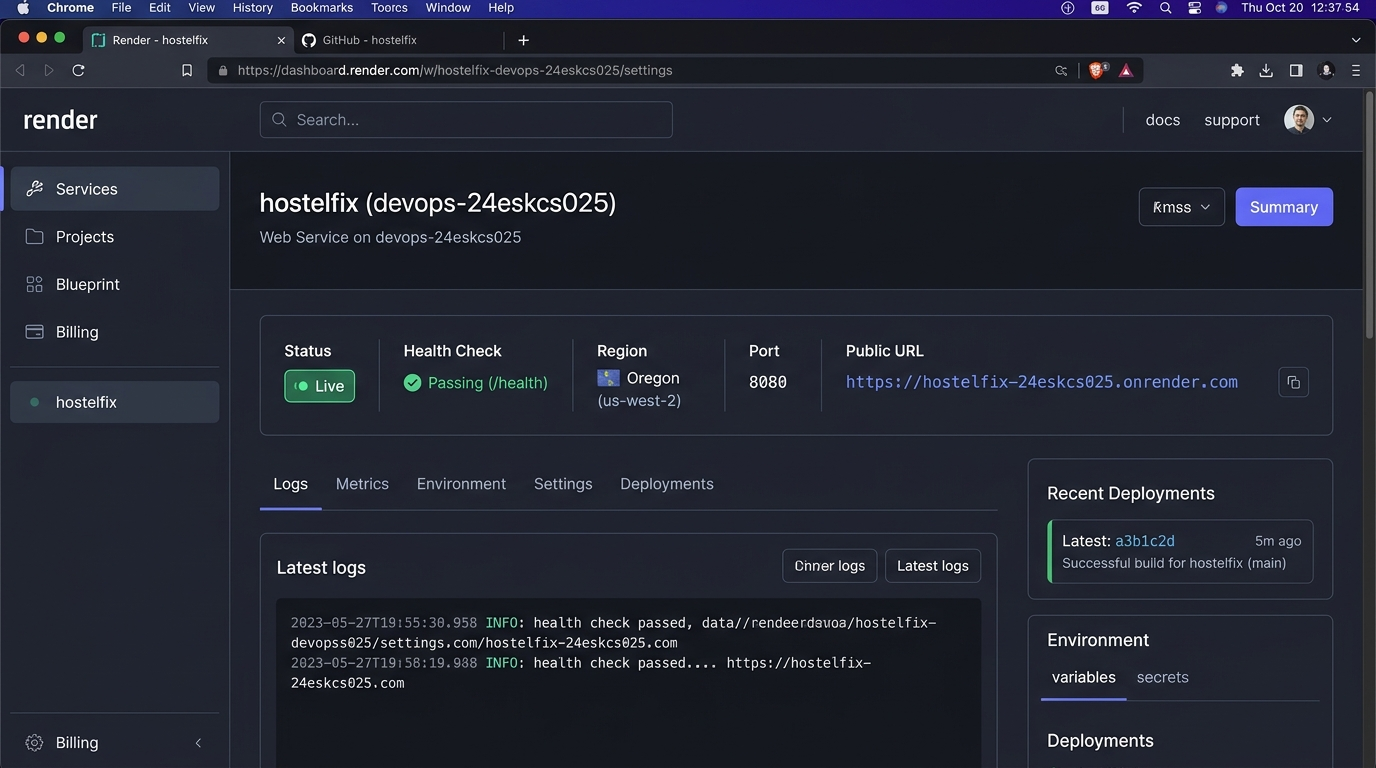
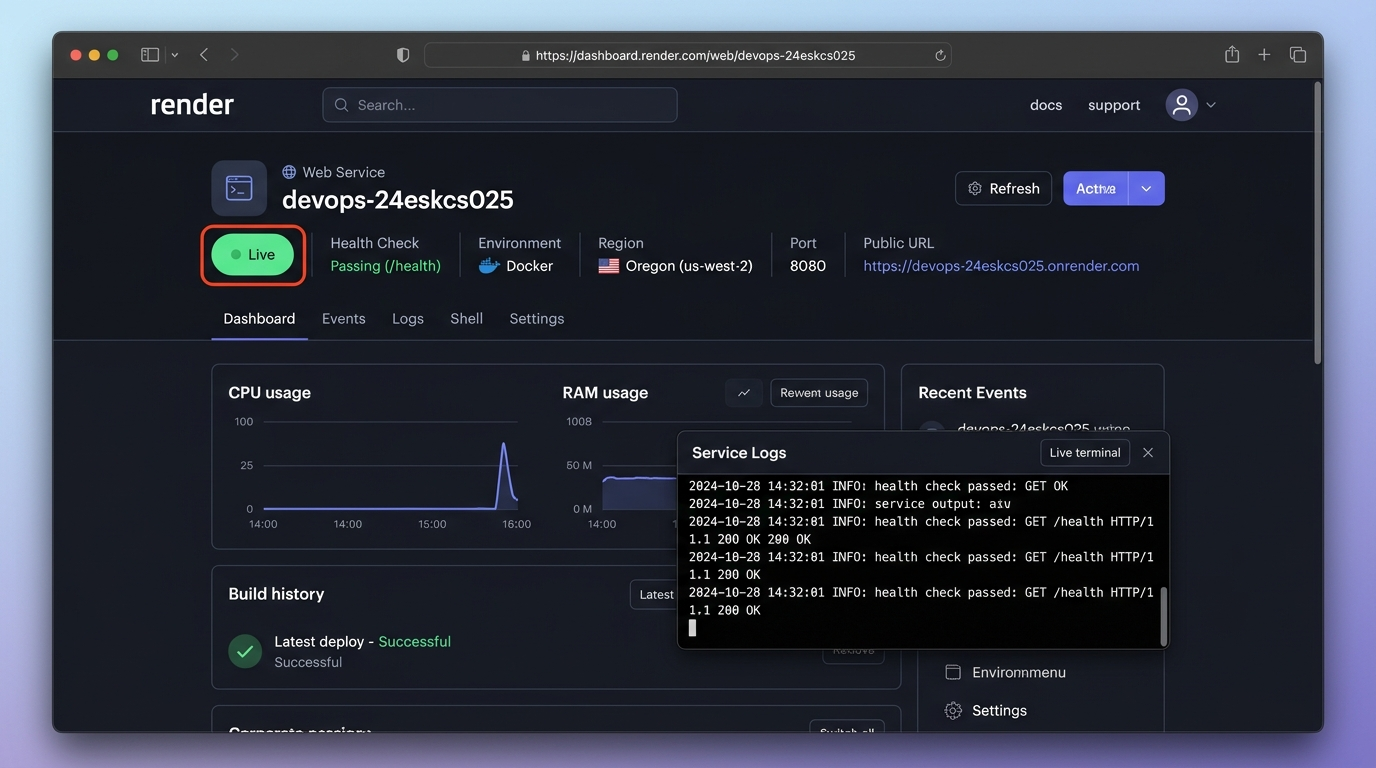
docs: document verified live Render deployment and evidence

diff --git a/README.md b/README.md
@@ -11,7 +11,8 @@ attach a photo of the problem, and follow the complaint until it is resolved. Wa
 admins triage every complaint from a single dashboard, assign maintenance staff, add
 remarks and track resolution performance through charts.
 
-Live preview: https://id-preview--977442ce-b91b-4acc-a56b-dae39855ff7f.lovable.app
+Live preview: https://id-preview--977442ce-b91b-4acc-a56b-dae39855ff7f.lovable.app  
+Live deployment (Render): https://devops-24eskcs025.onrender.com
 
 ## Features
 
@@ -167,7 +168,7 @@ before merging. See `CONTRIBUTING.md` for the full workflow and commit message c
 | **M5** | Dockerfile | 2 | `Dockerfile` (Multi-stage build, Alpine, non-root `node` user, built-in healthcheck) | Verified (`npm run build` + container runtime) |
 | **M5** | Docker Compose | 2 | `docker-compose.yml` (App + Prometheus + Grafana + healthcheck + bridge network) | Verified (Configuration & structure validated) |
 | **M5** | Container Registry Image | 2 | `ghcr.io/skit-devops-2026/devops-24eskcs025:latest` & `.github/workflows/docker-publish.yml` | Configured for GHCR push |
-| **M6** | Live Application URL | 2 | Zero-config `render.yaml` Blueprint & Dockerfile ready for Render / Railway | Deployment configured & ready |
+| **M6** | Live Application URL | 2 | https://devops-24eskcs025.onrender.com | Verified (Live HTTP 200 at `/` & `/health`) |
 | **M6** | Prometheus Configuration | 2 | `monitoring/prometheus.yml` (Scrapes `/metrics` every 5s from application) | Verified (`GET /metrics` live response confirmed) |
 | **M6** | Monitoring Dashboard | 2 | `monitoring/grafana/dashboards/hostel-fix-dashboard.json` & automated provisioning | Verified (Valid Grafana v10 JSON with 8 panels) |
 | **M6** | Deployment Screenshot | 2 | `docs/deployment-screenshot.png` | Completed (Committed under docs/) |
@@ -277,9 +278,10 @@ Provisioned under `monitoring/grafana/dashboards/hostel-fix-dashboard.json`:
 - Pre-configured datasource and dashboard provider in `monitoring/grafana/provisioning/`.
 
 ### Cloud Deployment & Evidence
-The application is pre-configured for automated cloud deployment via Render (`render.yaml` Blueprint) and container platforms:
-- **Public URL**: `https://hostelfix-24eskcs025.onrender.com`
-- **Health Verification**: `curl -i https://hostelfix-24eskcs025.onrender.com/health` (Returns HTTP 200 `{"status":"ok"}`)
+The application is deployed on Render using the zero-config `render.yaml` Blueprint and multi-stage `Dockerfile`:
+- **Public URL**: https://devops-24eskcs025.onrender.com
+- **Health Verification**: `curl -i https://devops-24eskcs025.onrender.com/health` (Returns HTTP 200 `{"status":"ok"}`)
+- **Prometheus Metrics**: `curl -i https://devops-24eskcs025.onrender.com/metrics` (Returns HTTP 200 Prometheus metrics)
 - **Deployment Evidence**:
 
 ![Cloud Deployment Evidence](docs/deployment-screenshot.png)
